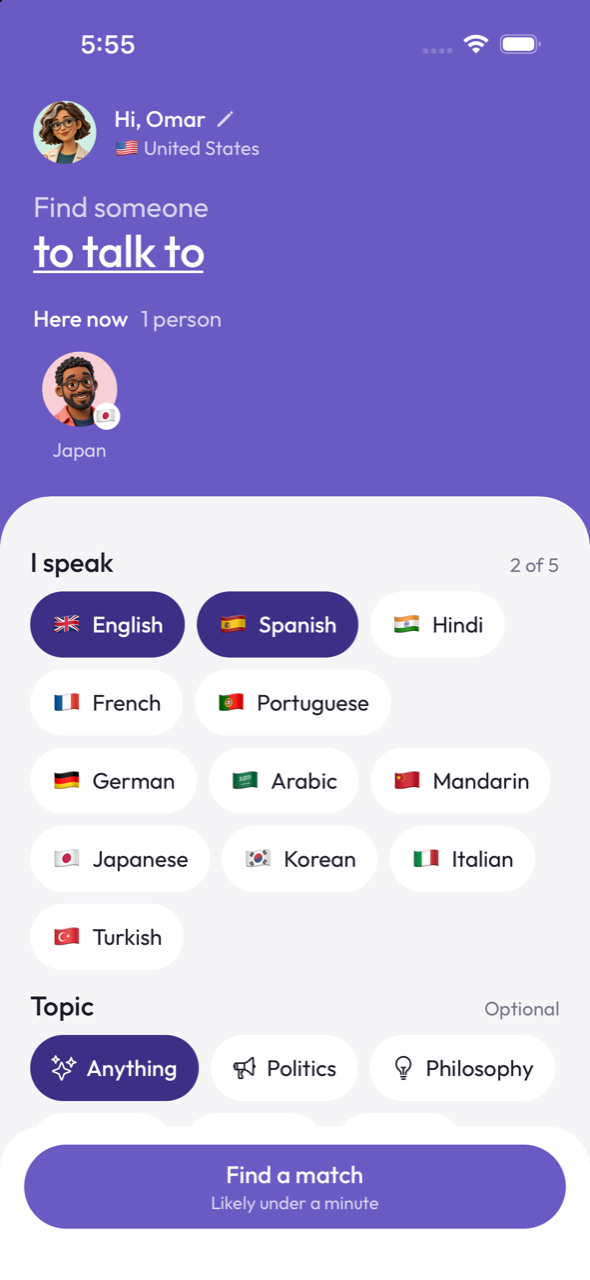
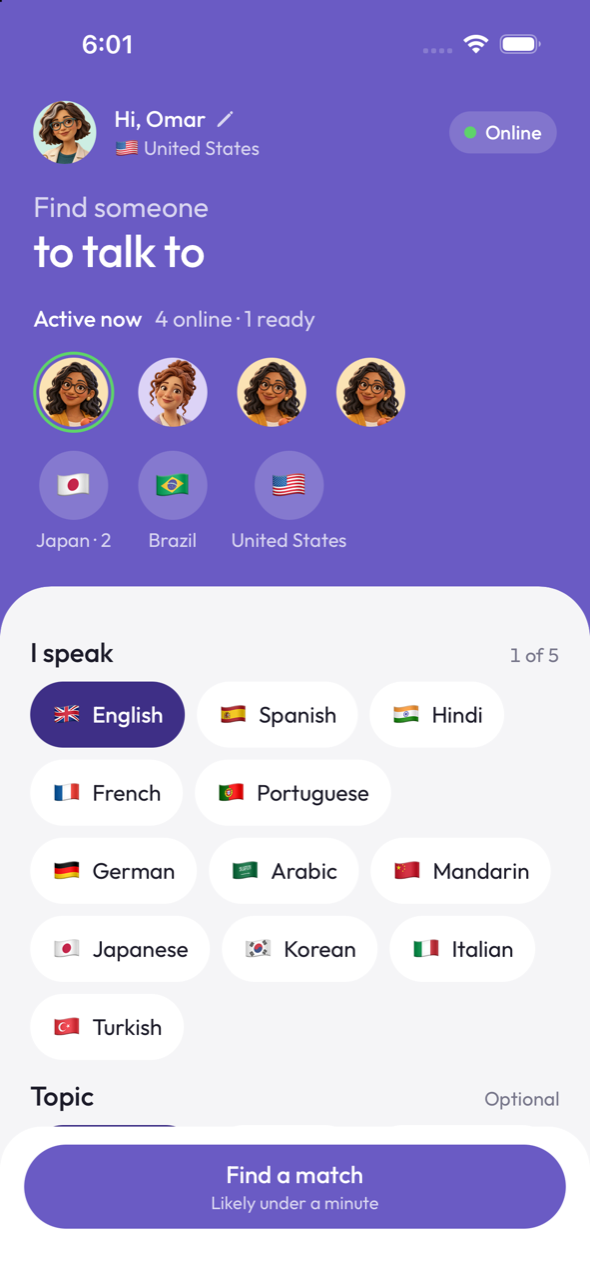
Show everyone active now, and their countries as round flags
The home header lists the people online as avatars, with a green ring on those
who are waiting and share a language, and below them the countries they are in
as round flag discs with a count. Two people both on the start screen now see
each other.

diff --git a/mobile/src/screens/StartScreen.tsx b/mobile/src/screens/StartScreen.tsx
@@ -49,11 +49,16 @@ export function StartScreen(props: Props) {
   const [editingName, setEditingName] = useState(false);
   const online = link === 'online';
   const { estimate, failed } = useEstimate(languages, online);
-  const presence = usePresence(languages, online);
+  const presence = usePresence(languages, props.userId, online);
   const full = languages.length >= MAX_LANGUAGES;
   const canMatch = online && languages.length > 0 && !view.joining;
   const wait = online ? estimateBeforeJoining(estimate, languages, failed) : OFFLINE[link];
   const notice = view.notice ? noticeCopy(view.notice) : null;
+
+  // The countries the people online are in, most people first.
+  const tally = new Map<string | null, number>();
+  for (const p of presence?.people ?? []) tally.set(p.region, (tally.get(p.region) ?? 0) + 1);
+  const countries = [...tally].map(([code, count]) => ({ code, count })).sort((x, y) => y.count - x.count);
 
   const toggleLanguage = (id: string) =>
     props.onLanguages(languages.includes(id) ? languages.filter((l) => l !== id) : [...languages, id]);
@@ -117,20 +122,34 @@ export function StartScreen(props: Props) {
         </Text>
 
         <View style={styles.hereHead} accessibilityLiveRegion="polite">
-          <Text style={styles.hereLabel}>Here now</Text>
-          <Text style={styles.hereCount}>{online && languages.length > 0 ? presenceLine(presence ? presence.waiting : null) : '—'}</Text>
+          <Text style={styles.hereLabel}>Active now</Text>
+          <Text style={styles.hereCount}>{online ? presenceLine(presence) : '—'}</Text>
         </View>
         {presence && presence.people.length > 0 && (
-          <ScrollView horizontal showsHorizontalScrollIndicator={false} contentContainerStyle={styles.faces} style={styles.facesScroll}>
-            {presence.people.map((p, i) => (
-              <View key={`${p.avatar}-${i}`} style={styles.face}>
-                <Avatar person={p.avatar} region={p.region} size={50} />
-                <Text style={styles.faceLabel} numberOfLines={1}>
-                  {regionName(p.region)}
-                </Text>
-              </View>
-            ))}
-          </ScrollView>
+          <>
+            <ScrollView horizontal showsHorizontalScrollIndicator={false} contentContainerStyle={styles.faces} style={styles.facesScroll}>
+              {presence.people.map((p, i) => (
+                // A green ring: waiting now and shares a language, so tapping Find a match would pair you.
+                <View key={`${p.avatar}-${i}`} style={[styles.faceRing, p.waiting && styles.faceReady]}>
+                  <Avatar person={p.avatar} size={46} />
+                </View>
+              ))}
+            </ScrollView>
+            <ScrollView horizontal showsHorizontalScrollIndicator={false} contentContainerStyle={styles.faces} style={styles.facesScroll}>
+              {countries.map((c) => (
+                <View key={c.code ?? 'unknown'} style={styles.country} accessibilityLabel={`${regionName(c.code)}, ${c.count}`}>
+                  <View style={styles.countryDisc}>
+                    <Text style={styles.countryFlag} allowFontScaling={false}>
+                      {flag(c.code)}
+                    </Text>
+                  </View>
+                  <Text style={styles.faceLabel} numberOfLines={1}>
+                    {c.count > 1 ? `${regionName(c.code)} · ${c.count}` : regionName(c.code)}
+                  </Text>
+                </View>
+              ))}
+            </ScrollView>
+          </>
         )}
       </Header>
 
@@ -215,9 +234,13 @@ const styles = StyleSheet.create({
   hereLabel: { ...font.medium, fontSize: 15, lineHeight: 20, color: color.onAccent },
   hereCount: { ...font.regular, fontSize: 15, lineHeight: 20, color: color.onAccentSoft },
   facesScroll: { marginHorizontal: -space.xl, marginTop: space.m },
-  faces: { paddingHorizontal: space.xl, gap: space.l },
-  face: { alignItems: 'center', width: 62, gap: 6 },
-  faceLabel: { ...type.small, color: color.onAccentSoft, maxWidth: 70 },
+  faces: { paddingHorizontal: space.xl, gap: space.m },
+  faceRing: { padding: 2, borderRadius: 27, borderWidth: 2, borderColor: 'transparent' },
+  faceReady: { borderColor: color.live },
+  country: { alignItems: 'center', gap: 4, minWidth: 54 },
+  countryDisc: { width: 46, height: 46, borderRadius: 23, backgroundColor: 'rgba(255,255,255,0.18)', alignItems: 'center', justifyContent: 'center' },
+  countryFlag: { fontSize: 24, lineHeight: 30 },
+  faceLabel: { ...type.small, color: color.onAccentSoft },
   scroll: { padding: space.edge, paddingBottom: space.xl },
   notice: { flexDirection: 'row', alignItems: 'center', marginBottom: space.s },
   noticeBar: { width: 5, alignSelf: 'stretch', backgroundColor: color.warn },

diff --git a/mobile/src/session/usePresence.ts b/mobile/src/session/usePresence.ts
@@ -2,31 +2,36 @@ import { useEffect, useState } from 'react';
 
 import { HTTP_URL } from '../config';
 
-/** Someone waiting right now who shares a language: how to draw them, and where they are. Never who they are. */
+/** Someone online right now: how to draw them, and where they are. Never who they are. */
 export interface PersonHere {
   avatar: number;
   region: string | null;
+  /** In the queue and shares one of your languages: can be matched with you this minute. */
+  waiting: boolean;
 }
 
 export interface Presence {
+  /** Everyone connected, not counting you. */
+  online: number;
+  /** How many of them are waiting and share one of your languages. */
   waiting: number;
-  /** The first few people, longest wait first. */
+  /** The first few people: those waiting first, longest wait first. */
   people: PersonHere[];
 }
 
 const REFRESH_MS = 4000;
 
-/** Who is waiting right now for the chosen languages. Asked again when they change, then every few seconds. */
-export function usePresence(languages: string[], active: boolean): Presence | null {
+/** Who is online right now. Asked again when the chosen languages change, then every few seconds. */
+export function usePresence(languages: string[], userId: string, active: boolean): Presence | null {
   const key = [...languages].sort().join(',');
   const [result, setResult] = useState<{ key: string; presence: Presence | null }>({ key: '', presence: null });
 
   useEffect(() => {
-    if (!active || key === '') return;
+    if (!active) return;
     let cancelled = false;
     const load = async () => {
       try {
-        const res = await fetch(`${HTTP_URL}/presence?languages=${encodeURIComponent(key)}`);
+        const res = await fetch(`${HTTP_URL}/presence?languages=${encodeURIComponent(key)}&user_id=${encodeURIComponent(userId)}`);
         if (!res.ok) throw new Error(String(res.status));
         const presence = (await res.json()) as Presence;
         if (!cancelled) setResult({ key, presence });
@@ -40,7 +45,7 @@ export function usePresence(languages: string[], active: boolean): Presence | nu
       cancelled = true;
       clearInterval(timer);
     };
-  }, [key, active]);
+  }, [key, userId, active]);
 
   return active && result.key === key ? result.presence : null;
 }

diff --git a/mobile/tests/app.test.tsx b/mobile/tests/app.test.tsx
@@ -270,12 +270,20 @@ describe('matchmaking flow', () => {
       expect(await screen.findByText('Usually a few minutes')).toBeOnTheScreen();
     });
 
-    test('shows how many people are waiting and where they are, without naming them', async () => {
-      await open(UNKNOWN, { waiting: 3, people: [{ avatar: 11, region: 'JP' }, { avatar: 22, region: 'BR' }, { avatar: 33, region: 'JP' }] });
-      expect(await screen.findByText('3 people')).toBeOnTheScreen();
-      expect(screen.getAllByText('Japan').length).toBe(2);
+    test('shows who is online, how many are ready to match, and where they are, without naming them', async () => {
+      await open(UNKNOWN, {
+        online: 3,
+        waiting: 1,
+        people: [
+          { avatar: 11, region: 'JP', waiting: true },
+          { avatar: 22, region: 'BR', waiting: false },
+          { avatar: 33, region: 'JP', waiting: false },
+        ],
+      });
+      expect(await screen.findByText('3 online · 1 ready')).toBeOnTheScreen();
+      expect(screen.getByText('Japan · 2')).toBeOnTheScreen();
       expect(screen.getByText('Brazil')).toBeOnTheScreen();
-      expect(screen.getAllByText('🇯🇵').length).toBe(3); // the Japanese language chip, and a flag badge on each of the two people in Japan
+      expect(screen.getAllByText('🇯🇵').length).toBe(2); // the Japanese language chip, and one round flag for both people in Japan
     });
 
     test('asks again for the languages you pick', async () => {
@@ -285,7 +293,7 @@ describe('matchmaking flow', () => {
       await screen.findByText('Hi, Sam');
       await connect();
       await fireEvent.press(screen.getByRole('checkbox', { name: 'Hindi' }));
-      await waitFor(() => expect(fetchMock.mock.calls.some((c) => String(c[0]).includes('/presence?languages=english%2Chindi'))).toBe(true));
+      await waitFor(() => expect(fetchMock.mock.calls.some((c) => String(c[0]).includes('/presence?languages=english%2Chindi&user_id=u_test'))).toBe(true));
     });
   });
 

diff --git a/mobile/src/copy.ts b/mobile/src/copy.ts
@@ -53,11 +53,11 @@ export function estimateBeforeJoining(e: Estimate | null, languages: string[], u
   return estimateLine(e);
 }
 
-/** Start screen: how many people are waiting who share a language. */
-export function presenceLine(waiting: number | null): string {
-  if (waiting === null) return 'Looking…';
-  if (waiting === 0) return 'Nobody yet';
-  return waiting === 1 ? '1 person' : `${waiting} people`;
+/** Start screen: who is online, and how many of them could be matched with you right now. */
+export function presenceLine(presence: { online: number; waiting: number } | null): string {
+  if (!presence) return 'Looking…';
+  if (presence.online === 0) return 'Nobody yet';
+  return presence.waiting > 0 ? `${presence.online} online · ${presence.waiting} ready` : `${presence.online} online`;
 }
 
 export function budgetLine(leftMs: number): string {

diff --git a/mobile/tests/copy.test.ts b/mobile/tests/copy.test.ts
@@ -22,11 +22,11 @@ describe('copy', () => {
     expect(estimateBeforeJoining({ bucket: 'over_five_minutes', sample_size: 3, someone_waiting: false }, ['hindi'], false)).toBe('May take over five minutes');
   });
 
-  test('presence is a count, nothing more', () => {
+  test('presence says who is online and how many could be matched now', () => {
     expect(presenceLine(null)).toBe('Looking…');
-    expect(presenceLine(0)).toBe('Nobody yet');
-    expect(presenceLine(1)).toBe('1 person');
-    expect(presenceLine(7)).toBe('7 people');
+    expect(presenceLine({ online: 0, waiting: 0 })).toBe('Nobody yet');
+    expect(presenceLine({ online: 2, waiting: 0 })).toBe('2 online');
+    expect(presenceLine({ online: 7, waiting: 3 })).toBe('7 online · 3 ready');
   });
 
   test('every way back to the start says what happened, briefly', () => {

diff --git a/mobile/tests/support/fakeServer.ts b/mobile/tests/support/fakeServer.ts
@@ -69,7 +69,7 @@ export async function drop() {
 
 export const UNKNOWN: Estimate = { bucket: 'unknown', sample_size: 0, someone_waiting: false };
 
-export const NOBODY: Presence = { waiting: 0, people: [] };
+export const NOBODY: Presence = { online: 0, waiting: 0, people: [] };
 
 /** Answers GET /estimate and GET /presence. */
 export function serveEstimate(estimate: Estimate, presence: Presence = NOBODY) {
